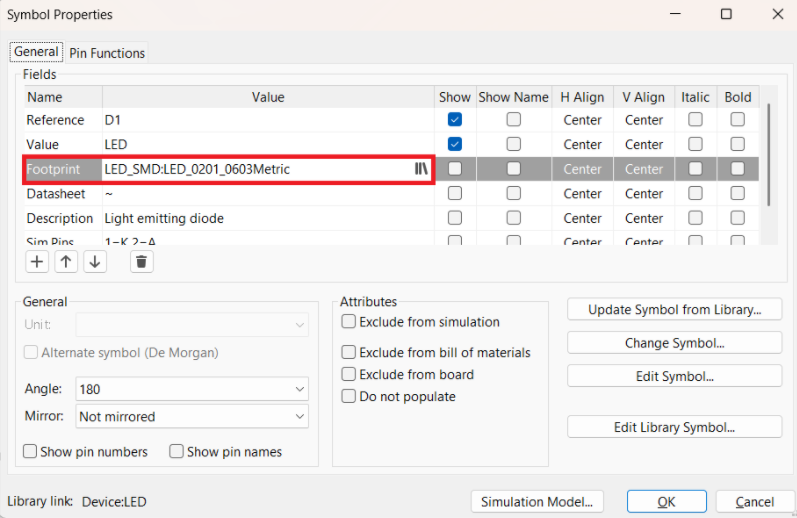
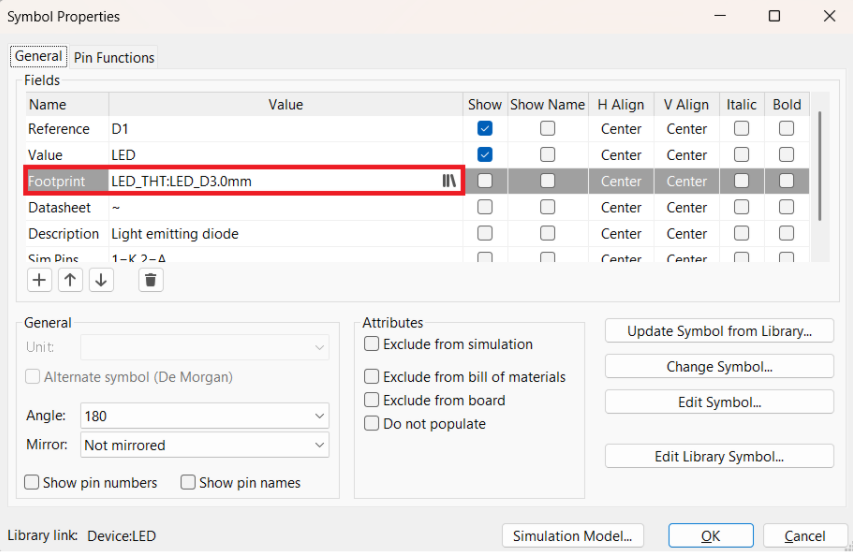
finished tut1 pcb design

diff --git a/pcbDesign.html b/pcbDesign.html
@@ -966,11 +966,11 @@
 
 <div class = "fade-in-text4">
 <p>
-    Now, <b><u>in the search box of the Footprint Chooser window, type in "LED_0201_0603Metric" and select the footprint named 
-      "LED_0201_0603Metric" by left clicking twice. The footprint should now appear back in your textbox in the "Symbol Properties"
+    Now, <b><u>in the search box of the Footprint Chooser window, type in "LED_D3.0mm" and select the footprint named 
+      "LED_D3.0mm" by left clicking twice. The footprint should now appear back in your textbox in the "Symbol Properties"
       window. After it appears, click "Ok" in the bottom right of this window to save the change.
     </u></b> 
-    This is a commonly used surface-mounted-device (SMD) LED used on PCBs!
+    This is a commonly used through-hole technology (THT) LED used for soldering on LEDs to PCBs!
     See the images below for a reference.
 </p>
 </div>
@@ -998,11 +998,13 @@
     Navigate over to where it says "Footprint" and click on the blank box next to it, so that an icon with 2 vertical bars and 1 slanted bar appears 
     at the very right end of the text box. Click on this icon so that a new window pops up, titled "Footprint Chooser". 
     
-    <b><u>In the search box of the Footprint Chooser window, type in "R_0201_0603" and select the footprint named 
-      "R_0201_0603" by left clicking twice. The footprint should now appear back in your textbox in the "Symbol Properties"
+    <b><u>In the search box of the Footprint Chooser window, type in "R_Axial Horizontal" and you'll see a bunch of resistor footprints!
+      Feel free to choose any of these footprints by left clicking twice, as the differences between each are representative of how long the legs are for 
+      each resistor, or the size of it. For reference, I selected "Resistor_THT:R_Axial_DIN0207_L6.3mm_D2.5mm_P10.16mm_Horizontal" 
+      if you would like to copy me. The footprint should now appear back in your textbox in the "Symbol Properties"
       window. After it appears, click "Ok" in the bottom right of this window to save the change.
     </u></b> 
-    This is a commonly used surface-mounted-device (SMD) resistor used on PCBs!
+    This is a commonly used through-hole technology (TFT) resistor footprint used on PCBs!
     See the images below for a reference.
 </p>
 </div>
@@ -1071,14 +1073,328 @@
   </blockquote>
 </div>
 
+<div class = "fade-in-text4">
+<p>
+    You'll have a new window pop-up that looks like this!
+</p>
+</div>
+
+<div style="text-align: center;">
+  <blockquote class="image-quote">
+    <img src="kiCad35.png" alt="kiCad35" class="fit-image" />
+  </blockquote>
+</div>
+
+<div class = "fade-in-text4">
+<p>
+    <b><u>At the top of your PCB editor window, where the list of all the icons is, click on the half-green, half-beige icon, with a red arrow. 
+      Alternatively, the keyboard shortcut for this is "F8", if you would like to press that on your computer keyboard instead. A window 
+      will pop-up titled "Update PCB from Schematic". In the bottom-left of the window, click "Update PCB".
+    </u></b> 
+    See the images below for a reference.
+</p>
+</div>
+
+<div class="image-quote-row">
+  <blockquote class="image-quote">
+    <img src="kiCad36.png" alt="kiCad36" class="fit-image" />
+  </blockquote>
+
+  <blockquote class="image-quote">
+    <img src="kiCad37.png" alt="kiCad37" class="fit-image" />
+  </blockquote>
+</div>
+
+<div class = "fade-in-text4">
+<p>
+    If you see no errors/warnings after clicking "Update PCB" <b><u>click "Close" in the bottom right of the window! You'll now find that 
+      a bunch of symbols follow your cursor everywhere you move it.
+    </u></b> 
+    See the images below for a reference.
+</p>
+</div>
+
+
+<div style="text-align: center;">
+  <blockquote class="image-quote">
+    <img src="kiCad38.png" alt="kiCad38" class="fit-image" />
+  </blockquote>
+</div>
+
+
+<div style="text-align: center;">
+  <blockquote class="image-quote">
+    <img src="kiCad39.png" alt="kiCad39" class="fit-image" />
+  </blockquote>
+</div>
+
+<div class = "fade-in-text4">
+<p>
+    <b><u>Left-click anywhere on the canvas to place the footprints down. In order to move around our footprints, click the component 
+      so that all of it is highlighted, including the text, and then you will be able to drag it around by hovering the component and holding 
+      left-click. If you want to rotate a footprint, while highlighted, press "R" on your computer keyboard. (the same process as 
+      moving around symbols in the schematic editor window)
+    </u></b> 
+</p>
+</div>
+
+<div class = "fade-in-text4">
+<p>
+    <b><u>Since everthing is a little too compact, let's make some space by dragging and rotating everything out a bit!
+    </u></b> 
+    Feel free to copy the layout I have for the footprints.
+</p>
+</div>
+
+<div style="text-align: center;">
+  <blockquote class="image-quote">
+    <img src="kiCad40.png" alt="kiCad40" class="fit-image" />
+  </blockquote>
+</div>
+
+
+<div class = "fade-in-text4">
+<p>
+    Now that we have our layout, let's start adding traces to our PCB! Traces are copper pathways embedded into our printed 
+    circuit board, meaning "traces" are like our "wires" we use when making any circuit. 
+    <b><u>To start tracing, hover over a "hole" of a footprint, and then click "X" on your keyboard, or on the right side of the PCB editor window,
+      you'll see a horizontal blue line with two slanted ends icon, which you can click to route a single track.
+    </u></b> 
+    See the image below for a reference of where this icon is located.
+</p>
+</div>
+
+<div style="text-align: center;">
+  <blockquote class="image-quote">
+    <img src="kiCad41.png" alt="kiCad41" class="fit-image" />
+  </blockquote>
+</div>
+
+<div class = "fade-in-text4">
+<p>
+    <b><u>Either way, once you click on a "hole" of a footprint, you should see this view, which helps you know how footprints should be connected via
+    tracks! 
+    </u></b> 
+</p>
+</div>
+
+<div style="text-align: center;">
+  <blockquote class="image-quote">
+    <img src="kiCad42.png" alt="kiCad42" class="fit-image" />
+  </blockquote>
+</div>
+
+<div class = "fade-in-text4">
+<p>
+    <b><u>Drag your mouse to the other highlighted end, and then left-click to place the trace!
+    </u></b> See the images below for a reference.
+</p>
+</div>
+
+<div class="image-quote-row">
+  <blockquote class="image-quote">
+    <img src="kiCad43.png" alt="kiCad43" class="fit-image" />
+  </blockquote>
+
+  <blockquote class="image-quote">
+    <img src="kiCad44.png" alt="kiCad44" class="fit-image" />
+  </blockquote>
+</div>
+
+<div class = "fade-in-text4">
+<p>
+    Now, let's trace the rest of our circuit<b><u>Click on the other end of our LED that is not connected, so that you are placing another trace.
+      If you want to route a trace in a specific way that the auto-router tool will not allow you, you can click left-click on an empty space to set down 
+      a specific route of a trace! 
+    </u></b> For example, the auto-router tool wanted to put the trace this way when trying to connect the other end of the LED: 
+</p>
+</div>
+
+<div style="text-align: center;">
+  <blockquote class="image-quote">
+    <img src="kiCad45.png" alt="kiCad45" class="fit-image" />
+  </blockquote>
+</div>
+
+<div class = "fade-in-text4">
+<p>
+    But I didn't exactly want this option, since my trace will run into my footprint outline
+     (also known as the silkscreen layer). So, I can click on the other end of the LED, route a trace just slightly above, click left-click (which will 
+     set our trace so far in stone), and then be able to finish the rest of the connection without going straight through my resistor footprint!
+</p>
+</div>
+
+<div class="image-quote-row">
+  <blockquote class="image-quote">
+    <img src="kiCad46.png" alt="kiCad46" class="fit-image" />
+  </blockquote>
+
+  <blockquote class="image-quote">
+    <img src="kiCad47.png" alt="kiCad47" class="fit-image" />
+  </blockquote>
+</div>
+
+<div class = "fade-in-text4">
+<p>
+    Now, let's finish tracing our PCB by connecting the other end of the resistor to our header pins, by repeating the previous steps.
+</p>
+</div>
+
+<div style="text-align: center;">
+  <blockquote class="image-quote">
+    <img src="kiCad48.png" alt="kiCad48" class="fit-image" />
+  </blockquote>
+</div>
+
+<div class = "fade-in-text4">
+<p>
+    Our finished PCB will look like this in the end! Although, if you chose to trace it differently, it may look a little different.
+</p>
+</div>
+
+<div style="text-align: center;">
+  <blockquote class="image-quote">
+    <img src="kiCad49.png" alt="kiCad49" class="fit-image" />
+  </blockquote>
+</div>
+
+<div class = "fade-in-text4">
+<p style = "font-size: 16px">
+    <b><u>Step 7: Edge Cuts + Finishing Touches</u></b>
+</p>
+</div>
+
+<div class = "fade-in-text4">
+<p>
+    Now, we've laid out all our PCB traces, let's create the outline for our PCB!<b><u>
+      Navigate over to the right side of the PCB editor window, and click on where it says Edge.Cuts
+    </u></b>.
+</p>
+</div>
+
+<div style="text-align: center;">
+  <blockquote class="image-quote">
+    <img src="kiCad50.png" alt="kiCad50" class="fit-image" />
+  </blockquote>
+</div>
+
+<div class = "fade-in-text4">
+<p>
+    Then<b><u>
+      click on the filled in gray rectangle icon nearby Edge.Cuts
+    </u></b>.
+</p>
+</div>
+
+<div style="text-align: center;">
+  <blockquote class="image-quote">
+    <img src="kiCad51.png" alt="kiCad51" class="fit-image" />
+  </blockquote>
+</div>
+
+<div class = "fade-in-text4">
+<p>
+    What we're going to do now is create the edge cuts for our PCB, which essentially means creating an outline, or how big the PCB 
+    should be (or even what shape). Since we generally want PCBs to be pretty compact, let's create a rectangular outline just big enough to 
+    contain everything with a little gap in between.
+</p>
+</div>
+
+<div class = "fade-in-text4">
+<p>
+    To do so, click on where you want the first corner of the rectangle to be, and then drag your mouse to contain all of the footprints.
+</p>
+</div>
+
+<div style="text-align: center;">
+  <blockquote class="image-quote">
+    <img src="kiCad52.png" alt="kiCad52" class="fit-image" />
+  </blockquote>
+</div>
+
+<div class = "fade-in-text4">
+<p>
+    If you want to make the edges of the rectangle more rounded, click on the rectangle so that all of it is highlighted, then right-click it, hover over
+    "Shape Modification", then click on "Fillet Lines". A window should pop-up, and choosing a radius of 1mm is fine to round the edges, but 
+    feel free to change this number to your liking!
+</p>
+</div>
+
+<div style="text-align: center;">
+  <blockquote class="image-quote">
+    <img src="kiCad54.png" alt="kiCad54" class="fit-image" />
+  </blockquote>
+</div>
+
+<div style="text-align: center;">
+  <blockquote class="image-quote">
+    <img src="kiCad53.png" alt="kiCad53" class="fit-image" />
+  </blockquote>
+</div>
+
+<div class = "fade-in-text4">
+<p>
+    Now, our finished PCB looks like this!
+</p>
+</div>
+
+<div style="text-align: center;">
+  <blockquote class="image-quote">
+    <img src="kiCad55.png" alt="kiCad55" class="fit-image" />
+  </blockquote>
+</div>
+
+<div class = "fade-in-text4">
+<p>
+    Lastly, let's check our PCB follows all design conventions, by using the DRC tool, or Design Rules Checker. <b><u>
+      Navigate to the top of our PCB editor window, and click the icon that looks like a 3 bullet list with a red checkmark. A pop-up 
+      window appear titled "Design Rules Checker", and click "Run DRC" in the bottom-right. You should have 0 errors pop up!
+    </u></b>
+</p>
+</div>
+
+<div style="text-align: center;">
+  <blockquote class="image-quote">
+    <img src="kiCad56.png" alt="kiCad56" class="fit-image" />
+  </blockquote>
+</div>
+
+<div style="text-align: center;">
+  <blockquote class="image-quote">
+    <img src="kiCad57.png" alt="kiCad57" class="fit-image" />
+  </blockquote>
+</div>
+
+<div class = "fade-in-text4">
+<p>
+    Congratulations! You have now made your first PCB! If you want to see a 3D model of how it looks, navigate to the top of your PCB editor 
+    window, and click the icon with a thick blue horizontal line at the bottom, and a black and gray square on top.
+</p>
+</div>
+
+<div style="text-align: center;">
+  <blockquote class="image-quote">
+    <img src="kiCad58.png" alt="kiCad58" class="fit-image" />
+  </blockquote>
+</div>
+
+<div style="text-align: center;">
+  <blockquote class="image-quote">
+    <img src="kiCad59.png" alt="kiCad59" class="fit-image" />
+  </blockquote>
+</div>
+
 <section id="tut2">
-  <h1 style = "font-family:ringBearer">intermediate tutorial</h1>
+  <div class="fade-in-text2">
+  <h1 style = "font-family:ringBearer"> <b><u>intermediate tutorial</u></b> </h1>
+  </div>
   
   <div class = "fade-in-text4">
   <p style = "font-size: 16px">
       Now that we know the basics, let's get a little more complex! The tutorial below will cover how to make 
         a <b><u> </u></b> which will cover more of the tools of KiCad, <b><u>such as no-connections, power flags, introduction to 
-        new analog components, via holes, and back copper traces.</u></b>
+        new analog components, via holes, back copper traces, and zone fills.</u></b>
+        For now, only a video tutorial of this can be found below. 
   </p>
 </div>
 
@@ -1087,8 +1403,9 @@
 </section>
 
 <section id="tut3">
-  <h1 style = "font-family:ringBearer">advanced tutorial</h1>
-  
+<div class="fade-in-text2">
+<h1 style = "font-family:ringBearer"> <b><u>advanced tutorial</u></b> </h1>
+</div>
   <div class = "fade-in-text4">
   <p style = "font-size: 16px">
       It's time to start talking about making your own DevBoard, like the one found in the Tools For Imagination! 
